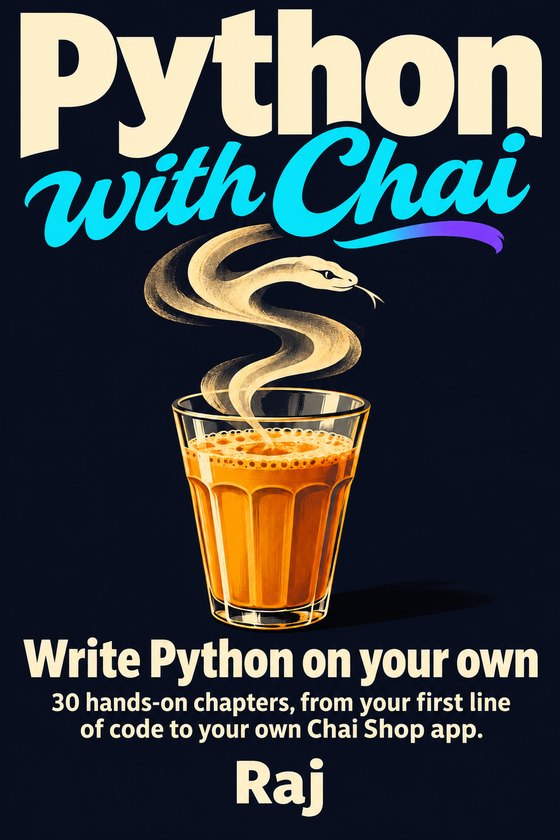
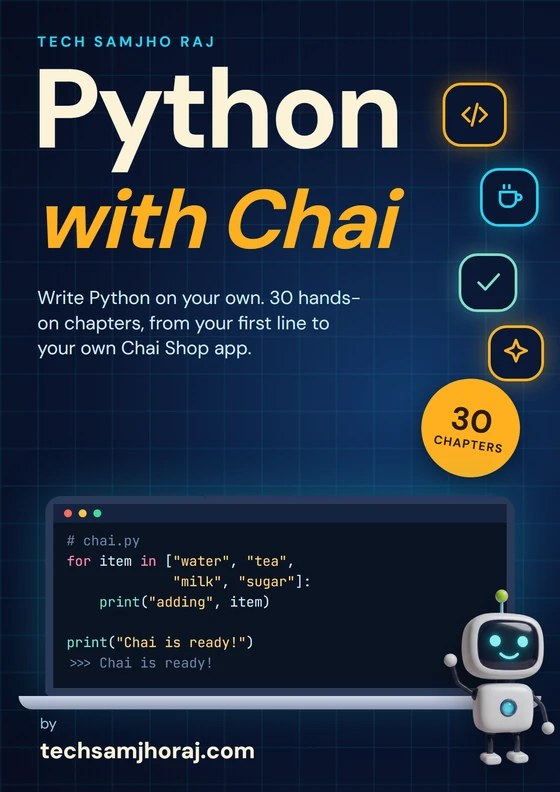
Books: A4 covers for Python with Chai and AI Job Search, unified book cards (price line, disabled Coming soon), bundle-card image fix (sw v160, rdbooks v41)

diff --git a/rdbooks.js b/rdbooks.js
@@ -18,7 +18,7 @@ function card(c){
     ? `<img${c.mock ? ' class="mock"' : ""} src="${c.cover}" alt="${esc(c.alt)}" width="${c.w}" height="${c.h}" loading="lazy" decoding="async">`
     : `<span class="emo" aria-hidden="true">${c.emoji}</span>`;
   const ext = c.ext ? ' target="_blank" rel="noopener"' : "";
-  const price = c.price
+  const price = c.tba ? `<div class="bk-price"><b class="tba">₹ —</b><span>Price to be announced</span></div>` : c.price
     ? `<div class="bk-price"><b>${rs(c.price)}</b>${c.was ? `<s>${rs(c.was)}</s><em>Save ${rs(c.was - c.price)}</em>` : ""}${c.priceNote ? `<span>${c.priceNote}</span>` : ""}</div>`
     : `<div class="bk-price"><span>${c.priceNote || ""}</span></div>`;
   const canCart = c.cartId && CART_LIVE && window.Cart;
@@ -29,7 +29,8 @@ function card(c){
     : `<span class="bk-btn" aria-disabled="true">Coming soon</span>`;
   const buyNow = canCart ? `<a class="bk-link" href="${c.buy}" data-bk-buy="${c.cartId}" rel="noopener">Buy now</a>` : "";
   const prev = c.preview ? `<a class="bk-link" href="${c.preview}"${c.previewExt ? ' target="_blank" rel="noopener"' : ""}>${esc(c.previewLabel || "Free preview →")}</a>` : "";
-  const links = buyNow || prev ? `<div class="bk-links">${buyNow}${prev}</div>` : "";
+  const prev2 = c.preview2 ? `<a class="bk-link" href="${c.preview2}" target="_blank" rel="noopener">${esc(c.preview2Label || "More →")}</a>` : "";
+  const links = buyNow || prev ? `<div class="bk-links">${buyNow}${prev}${prev2}</div>` : "";
   return `<article class="bk-card" data-cats="${c.cats.join(" ")}">
     <div class="bk-stage${c.saf ? " saf" : ""}"><span class="bk-pill">${esc(c.pill)}</span>${c.badge ? `<span class="bk-badge">${esc(c.badge)}</span>` : ""}${stage}${c.mascot ? `<img class="bk-mascot" src="${c.mascot}" alt="" width="34" height="34" loading="lazy">` : ""}</div>
     <div class="bk-body"><h3><a href="${c.href}"${ext}>${esc(c.title)}</a></h3><p class="bk-meta">${c.meta}</p>${price}${btn}${links}</div></article>`;
@@ -38,13 +39,13 @@ function card(c){
 function cards(B, A){
   const pyBuy = B.buy.en || "";
   return [
-    { cats:["tech"], title:"Python with Chai", pill:"English", cover:"media/book-mockup-tech.webp", mock:1, w:560, h:700, alt:"Python with Chai: 3D view of the navy book with a chai glass on the cover", mascot:"img/botu-192.png",
+    { cats:["tech"], title:"Python with Chai", pill:"English", cover:MEDIA + "python-with-chai-cover-a4.webp", w:560, h:792, alt:"Python with Chai: 3D view of the navy book with a chai glass on the cover", mascot:"img/botu-192.png",
       meta:"30 chapters · 300+ pages · PDF + EPUB · for beginners", price:B.price, priceNote:"", href:"#p/python-with-chai", buy:pyBuy, buyLabel:"Buy " + rs(B.price), preview:"#book", previewLabel:"Free preview →" },
     { cats:["tech"], title:"Python Libraries Made Easy", pill:"English", badge:"Coming soon", cover:MEDIA + "pylibs-cover.webp", w:840, h:840, alt:"Python Libraries Made Easy, book cover", mascot:"img/botu-192.png",
-      meta:"19 libraries, one per chapter · 83 pages · free sample of 15 pages", priceNote:"Price announced at launch", href:"#p/python-libraries", go:"notes/python-libraries-made-easy-sample.pdf", goLabel:"Free sample (PDF) →", ext:1 },
+      meta:"19 libraries, one per chapter · 83 pages · free sample of 15 pages", href:"#p/python-libraries", tba:1, preview:"notes/python-libraries-made-easy-sample.pdf", previewExt:1, previewLabel:"Sample PDF →" },
     { cats:["tech"], title:"Build with AI: 100 Days to Job-Ready", pill:"English", badge:"Coming soon", cover:MEDIA + "build-with-ai-cover.webp?v=2", w:560, h:792, alt:"Build with AI: 100 Days to Job-Ready, book cover", mascot:"img/botu-192.png",
-      meta:"24 skills, day by day, with code you can run · free sample of 3 chapters", priceNote:"The sample labs run on your laptop with no API key.", href:"#p/build-with-ai", go:"notes/build-with-ai-sample.pdf", goLabel:"Free sample (PDF) →", ext:1, preview:"notes/ai100-sample-labs.zip", previewExt:1, previewLabel:"Free sample labs (zip) →" },
-    { cats:["jobs","tech"], cartId:"book", title:"AI Job Search", pill:"English", badge:DODO_LIVE ? "1 free resume build" : "New", cover:MEDIA + "aijob-cover.webp", w:420, h:420, alt:"AI Job Search by Raj: book cover with the Botu robot at a laptop", mascot:"img/botu-192.png",
+      meta:"24 skills, day by day, with code you can run · free sample of 3 chapters", href:"#p/build-with-ai", tba:1, preview:"notes/build-with-ai-sample.pdf", previewExt:1, previewLabel:"Sample PDF →", preview2:"notes/ai100-sample-labs.zip", preview2Label:"Labs zip →" },
+    { cats:["jobs","tech"], cartId:"book", title:"AI Job Search", pill:"English", badge:DODO_LIVE ? "1 free resume build" : "New", cover:MEDIA + "aijob-cover.webp?v=2", w:560, h:792, alt:"AI Job Search by Raj: book cover with the Botu robot at a laptop", mascot:"img/botu-192.png",
       meta:"50 AI prompts for jobs and study · PDF · helps you prepare, no job guarantee" + (CAREER_KIT_LIVE ? " · <b>Free Career Kit included</b>" : ""), price:A.price, priceNote:"+ tax", href:"#p/ai-job-search", buy:A.en, buyLabel:"Buy now · " + rs(A.price), preview:"#ai-job-search", previewLabel:"Free sample + details →" },
     { cats:["jobs"], title:"Naukri Saathi", pill:"Tool", badge:"Free demo", saf:1, emoji:"📄", w:0, h:0, alt:"", mascot:"img/botu-192.png",
       meta:"Paste a job post and your resume: skill match, resume lines, cover note and interview questions", priceNote:"Free to try. Resume pack ₹49 + tax", href:"/naukri-saathi/", go:"/naukri-saathi/", goLabel:"Try it free →" },
@@ -73,7 +74,7 @@ function shop(x){
       <p class="bk-lead">Chai-shop code, real AI prompts and step-by-step labs. Illustrated English ebooks that take you from your first program to a job-ready skill set. Free preview before you buy.</p>
       <div class="bk-btns"><a class="bk-btn pri" href="#bk-lib" data-bk-go="bk-lib">Shop all books →</a><a class="bk-btn" href="#p/ai-job-search">See inside a book</a></div>
       <ul class="hm-facts"><li><b>Instant</b> PDF download</li><li><b>Every example</b> tested</li><li><b>English</b> edition</li></ul></div>
-    <div class="hm-art" aria-hidden="true"><img class="a" src="${MEDIA}build-with-ai-cover.webp?v=2" alt="" width="420" height="325"><img class="b" src="media/book-mockup-tech.webp" alt="" width="280" height="350"><img class="c" src="${MEDIA}aijob-cover.webp" alt="" width="260" height="260"><span class="hm-chip">Python · AI · Jobs</span></div></div>
+    <div class="hm-art" aria-hidden="true"><img class="a" src="${MEDIA}build-with-ai-cover.webp?v=2" alt="" width="280" height="396"><img class="b" src="media/book-mockup-tech.webp?v=2" alt="" width="280" height="390"><img class="c" src="${MEDIA}aijob-cover.webp?v=2" alt="" width="280" height="396"><span class="hm-chip">Python · AI · Jobs</span></div></div>
   <section class="hm-trust" aria-label="Why buy here"><div><b>Instant download</b><span>Ebooks, nothing is shipped</span></div><div><b>Every example tested</b><span>Outputs come from running the code</span></div><div><b>Free previews</b><span>Read pages before you pay</span></div><div><b>Secure checkout</b><span>Payments by Dodo Payments</span></div></section>
   <section class="hm-goals" aria-labelledby="hm-g"><div class="bk-eyebrow">Pick a goal</div><h2 id="hm-g">What do you want to do?</h2>
     <div class="hm-gcards"><a class="hm-g" href="#bk-lib" data-bk-tab="tech"><b>Learn coding</b><span>Python from zero, libraries and building with AI.</span><i>Python · AI →</i></a><a class="hm-g" href="#bk-lib" data-bk-tab="jobs"><b>Get a job</b><span>Resume, cover letter and interview prompts, plus Naukri Saathi.</span><i>AI Job Search →</i></a><a class="hm-g" href="#bk-lib" data-bk-tab="kids"><b>Kids and teens</b><span>The Samjho Squad books, coming soon.</span><i>See the squad →</i></a></div></section>
@@ -83,7 +84,7 @@ function shop(x){
     <p class="bk-note" style="margin-top:12px">Prices are in rupees. AI Job Search prices show ₹ + tax (10% is added at checkout). Python with Chai is sold through Gumroad, which shows the final amount at checkout. AI Job Search helps you prepare and does not promise a job. Money books are on <a href="https://www.paisasamjhoraj.com/#books">our Paisa site</a>, and exam books are on <a href="https://www.dimaagdada.com/reasoning-puzzles/">Dimaag Dada</a>.</p></section>
   <section aria-labelledby="bk-b"><div class="bk-eyebrow">Sets</div><h2 id="bk-b">Books that work together</h2>
     <div class="bk-row" style="margin-top:14px;grid-template-columns:minmax(0,520px)">
-      <div class="bk-bundle"><span class="bk-badge">Best value</span><div class="bkim"><img src="${MEDIA}aijob-cover.webp" alt="" width="420" height="420" loading="lazy"></div><div class="tx"><h3>Job-Ready bundle</h3><p>AI Job Search book (English) + 5 resume builds on Naukri Saathi${DODO_LIVE ? "" : " (the builds arrive with our new checkout)"}${CAREER_KIT_LIVE ? ", plus the free Career Kit" : ""}. Helps you prepare; no job guarantee.</p><div class="pr"><b>${rs(A.bundle)}</b><span class="bk-note">+ tax</span></div><a class="bk-btn pri" href="#shop" data-bk-buy="bundle" rel="noopener">Buy now</a>${CART_LIVE && window.Cart ? `<button type="button" class="bk-btn" data-bk-cart="bundle">Add to cart</button>` : ""}</div></div></div></section>
+      <div class="bk-bundle"><span class="bk-badge">Best value</span><div class="bkim"><img src="${MEDIA}aijob-cover.webp?v=2" alt="" width="560" height="792" loading="lazy"></div><div class="tx"><h3>Job-Ready bundle</h3><p>AI Job Search book (English) + 5 resume builds on Naukri Saathi${DODO_LIVE ? "" : " (the builds arrive with our new checkout)"}${CAREER_KIT_LIVE ? ", plus the free Career Kit" : ""}. Helps you prepare; no job guarantee.</p><div class="pr"><b>${rs(A.bundle)}</b><span class="bk-note">+ tax</span></div><a class="bk-btn pri" href="#shop" data-bk-buy="bundle" rel="noopener">Buy now</a>${CART_LIVE && window.Cart ? `<button type="button" class="bk-btn" data-bk-cart="bundle">Add to cart</button>` : ""}</div></div></div></section>
   <section aria-labelledby="bk-i"><h2 id="bk-i">Real pages from our books</h2><p class="bk-lead" style="margin:6px 0 14px">Real pages from our own free previews. Swipe to see more.</p>
     <div class="bk-pages" role="list">
       <figure role="listitem"><img src="${MEDIA}aijob-en-p2.webp" alt="AI Job Search, English edition, sample page" width="640" height="495" loading="lazy"><figcaption>AI Job Search · English · sample page</figcaption></figure>
@@ -108,7 +109,7 @@ function aiPage(x){
   const pg = n => `<figure><img src="${MEDIA}aijob-en-p${n}.webp" alt="AI Job Search sample page ${n}" width="640" height="495" loading="lazy"><figcaption>Sample page ${n}</figcaption></figure>`;
   return `<div class="bk bk-has-sticky">
   <p><a class="bk-link" href="#shop">← All books</a></p>
-  <section class="bk-pagehero"><div class="bk-stage" style="border-radius:24px"><span class="bk-pill">English</span><span class="bk-badge">New</span><img src="${MEDIA}aijob-cover.webp" alt="AI Job Search by Raj: book cover with the Botu robot at a laptop" width="420" height="420" decoding="async"></div>
+  <section class="bk-pagehero"><div class="bk-stage" style="border-radius:24px"><span class="bk-pill">English</span><span class="bk-badge">New</span><img src="${MEDIA}aijob-cover.webp?v=2" alt="AI Job Search by Raj: book cover with the Botu robot at a laptop" width="420" height="420" decoding="async"></div>
     <div style="display:grid;gap:12px"><div class="bk-eyebrow">E-book · by Raj</div><h1>AI Job Search: 50 AI prompts for jobs + study</h1>
       <p class="bk-lead">50 copy-paste AI prompts that help you prepare for a job and study smarter. Every prompt comes with a real AI reply and a one-line tip on why it works. Just change the [brackets] and paste into ChatGPT, Gemini or any AI.</p>
       <div class="bk-price" style="padding:0"><b>${rs(A.price)}</b><span>+ tax · English edition</span></div>
@@ -135,12 +136,12 @@ function productData(x){
   const B = x.BOOK, A = x.AIJOB;
   return {
     "ai-job-search": { title:"AI Job Search: 50 AI prompts for jobs + study", eyebrow:"E-book · by Raj", pill:"English", badge:"New", cartId:"book", price:A.price, buy:A.en,
-      gallery:[[MEDIA + "aijob-cover.webp", "AI Job Search book cover"], [MEDIA + "aijob-en-p1.webp", "Sample page 1"], [MEDIA + "aijob-en-p2.webp", "Sample page 2"], [MEDIA + "aijob-en-p3.webp", "Sample page 3"]],
+      gallery:[[MEDIA + "aijob-cover.webp?v=2", "AI Job Search book cover"], [MEDIA + "aijob-en-p1.webp", "Sample page 1"], [MEDIA + "aijob-en-p2.webp", "Sample page 2"], [MEDIA + "aijob-en-p3.webp", "Sample page 3"]],
       desc:"50 copy-paste AI prompts that help you prepare for a job and study smarter. Every prompt comes with a real AI reply and a one-line tip on why it works.",
       more:"Resume and LinkedIn prompts, interview practice, the salary question and a 7-day study plan. You change the [brackets] and paste into any AI chat tool. It helps you prepare and does not promise a job.",
       pills:["50 prompts with real replies", "Instant PDF, 89 pages", "Free sample pages", "1 free Naukri Saathi resume build"], more_href:"#ai-job-search", more_label:"Full details and free sample →" },
     "python-with-chai": { title:"Python with Chai: From Basic to Expert", eyebrow:"E-book · by Raj", pill:"English", cartId:"", price:B.price, buy:B.buy.en,
-      gallery:[["media/book-mockup-tech.webp", "Python with Chai book cover"], [MEDIA + "python-ch1-p2.webp", "Chapter 1 preview page"], [MEDIA + "python-ch3-p2.webp", "Chapter 3 preview page"]],
+      gallery:[["media/book-mockup-tech.webp?v=2", "Python with Chai book cover"], [MEDIA + "python-ch1-p2.webp", "Chapter 1 preview page"], [MEDIA + "python-ch3-p2.webp", "Chapter 3 preview page"]],
       desc:"30 illustrated chapters and 300+ pages that take you from print() to decorators and a real project, with chai-shop examples.",
       more:"120+ examples where every output was really run, common mistakes with real error messages, practice with answers, cheat sheets and an index. PDF + EPUB in every purchase.",
       pills:["30 chapters, 300+ pages", "Every output really run", "Free chapter previews", "PDF + EPUB"], more_href:"#book", more_label:"Free preview and details →", sold:"Sold on Gumroad" },
@@ -174,7 +175,7 @@ function productExtra(x){
       details:[["Title","Python with Chai: From Basic to Expert"],["Language","English"],["Format","PDF + EPUB"],["Pages","300+"],["Chapters","30"],["Sold on","Gumroad"]],
       chapters:(B.chapters || []).map(c => [c[0], c[2]]),
       stats:[["30","chapters"],["300+","pages"],["120+","examples"]],
-      pages:[["media/book-mockup-tech.webp","Cover","Python with Chai, English edition"],[MEDIA + "python-ch1-p2.webp","Chapter 1","Hello, Python!"],[MEDIA + "python-ch3-p2.webp","Chapter 3","Strings: playing with text"]],
+      pages:[["media/book-mockup-tech.webp?v=2","Cover","Python with Chai, English edition"],[MEDIA + "python-ch1-p2.webp","Chapter 1","Hello, Python!"],[MEDIA + "python-ch3-p2.webp","Chapter 3","Strings: playing with text"]],
       faq:[["What format is the book?","PDF + EPUB, both included in every purchase. The PDF reads well on a phone, tablet or laptop; the EPUB is for Kindle, Kobo and phone readers."],["Do I need to know programming?","No. It starts from print() and builds up."],["Can I read a free preview first?","Yes. Every preview chapter shows the title page, a chapter and the practice section."],["Where do I pay?","Checkout is on Gumroad, which shows the final amount."]]
     },
     "python-libraries": {

diff --git a/python-book/index.html b/python-book/index.html
@@ -11,12 +11,12 @@
 <meta property="og:title" content="Python Book in English (PDF + EPUB) | Tech Samjho Raj">
 <meta property="og:description" content="Python with Chai: 30 illustrated chapters, 300+ pages, from print() to decorators and a real project. English edition, free chapter previews.">
 <meta property="og:url" content="https://www.techsamjhoraj.com/python-book/">
-<meta property="og:image" content="https://www.techsamjhoraj.com/media/book-cover-en.jpg">
+<meta property="og:image" content="https://www.techsamjhoraj.com/media/book-cover-en.jpg?v=2">
 <meta property="og:image:alt" content="Python with Chai book cover, Tech Edition">
 <meta name="twitter:card" content="summary_large_image">
 <meta name="theme-color" content="#050b17">
 <link rel="icon" type="image/png" sizes="32x32" href="/img/favicon-32.png">
-<script type="application/ld+json">{"@context":"https://schema.org","@graph":[{"@type":"Organization","@id":"https://www.techsamjhoraj.com/#org","name":"Tech Samjho Raj","url":"https://www.techsamjhoraj.com/"},{"@type":"Book","@id":"https://www.techsamjhoraj.com/python-book/#book","name":"Python with Chai: From Basic to Expert","author":{"@type":"Person","name":"Raj"},"publisher":{"@id":"https://www.techsamjhoraj.com/#org"},"description":"Python with Chai: 30 illustrated chapters, 300+ pages, from print() to decorators and a real project. English edition, free chapter previews.","image":"https://www.techsamjhoraj.com/media/book-cover-en.jpg","url":"https://www.techsamjhoraj.com/python-book/","inLanguage":["en"],"bookFormat":"https://schema.org/EBook","genre":"Programming","numberOfPages":300,"offers":[{"@type":"Offer","name":"English edition","price":"499","priceCurrency":"INR","availability":"https://schema.org/InStock","url":"https://samjhowithraj.gumroad.com/l/python-with-chai-en","itemCondition":"https://schema.org/NewCondition"}]},{"@type":"FAQPage","mainEntity":[{"@type":"Question","name":"What format is the Python with Chai book?","acceptedAnswer":{"@type":"Answer","text":"PDF + EPUB, both included in every purchase. The PDF (A5 pages) reads well on a phone, tablet or laptop and prints nicely; the EPUB is for Kindle, Kobo and phone e-book readers."}},{"@type":"Question","name":"I do not have Python installed. Can I still use the book?","acceptedAnswer":{"@type":"Answer","text":"Yes. Paste any example into the free Python Playground on this site and press Run: it runs in your browser, even on a phone. Almost every example works there."}},{"@type":"Question","name":"Do I need to know coding?","acceptedAnswer":{"@type":"Answer","text":"No. Chapter 1 starts from installing Python. The expert chapters are there when you are ready."}},{"@type":"Question","name":"Can I read a free preview first?","acceptedAnswer":{"@type":"Answer","text":"Yes. Every preview chapter shows the title page, a chai-shop story and a sneak peek, in the English PDF."}}]}]}</script>
+<script type="application/ld+json">{"@context":"https://schema.org","@graph":[{"@type":"Organization","@id":"https://www.techsamjhoraj.com/#org","name":"Tech Samjho Raj","url":"https://www.techsamjhoraj.com/"},{"@type":"Book","@id":"https://www.techsamjhoraj.com/python-book/#book","name":"Python with Chai: From Basic to Expert","author":{"@type":"Person","name":"Raj"},"publisher":{"@id":"https://www.techsamjhoraj.com/#org"},"description":"Python with Chai: 30 illustrated chapters, 300+ pages, from print() to decorators and a real project. English edition, free chapter previews.","image":"https://www.techsamjhoraj.com/media/book-cover-en.jpg?v=2","url":"https://www.techsamjhoraj.com/python-book/","inLanguage":["en"],"bookFormat":"https://schema.org/EBook","genre":"Programming","numberOfPages":300,"offers":[{"@type":"Offer","name":"English edition","price":"499","priceCurrency":"INR","availability":"https://schema.org/InStock","url":"https://samjhowithraj.gumroad.com/l/python-with-chai-en","itemCondition":"https://schema.org/NewCondition"}]},{"@type":"FAQPage","mainEntity":[{"@type":"Question","name":"What format is the Python with Chai book?","acceptedAnswer":{"@type":"Answer","text":"PDF + EPUB, both included in every purchase. The PDF (A5 pages) reads well on a phone, tablet or laptop and prints nicely; the EPUB is for Kindle, Kobo and phone e-book readers."}},{"@type":"Question","name":"I do not have Python installed. Can I still use the book?","acceptedAnswer":{"@type":"Answer","text":"Yes. Paste any example into the free Python Playground on this site and press Run: it runs in your browser, even on a phone. Almost every example works there."}},{"@type":"Question","name":"Do I need to know coding?","acceptedAnswer":{"@type":"Answer","text":"No. Chapter 1 starts from installing Python. The expert chapters are there when you are ready."}},{"@type":"Question","name":"Can I read a free preview first?","acceptedAnswer":{"@type":"Answer","text":"Yes. Every preview chapter shows the title page, a chai-shop story and a sneak peek, in the English PDF."}}]}]}</script>
 <script type="application/ld+json">{"@context":"https://schema.org","@type":"BreadcrumbList","itemListElement":[{"@type":"ListItem","position":1,"name":"Home","item":"https://www.techsamjhoraj.com/"},{"@type":"ListItem","position":2,"name":"Python with Chai book","item":"https://www.techsamjhoraj.com/python-book/"}]}</script>
 <style>:root{--bg:#050b17;--card:#0a1628;--fg:#f4f8ff;--mut:#9fb4c8;--line:#1c6f86;--gold:#25e0e6;--cy:#25e0e6;color-scheme:dark}
 *{box-sizing:border-box}body{margin:0;background-color:var(--bg);background-image:linear-gradient(rgba(37,224,230,.05) 1px,transparent 1px),linear-gradient(90deg,rgba(37,224,230,.05) 1px,transparent 1px);background-size:46px 46px;color:var(--fg);font:17px/1.65 "Segoe UI",system-ui,-apple-system,Roboto,sans-serif}
@@ -41,7 +41,7 @@ img{max-width:100%;height:auto;border-radius:14px}</style>
 <p class="crumb"><a href="/">Home</a> › Python with Chai book</p>
 <h1>Python with Chai: learn Python from Basic to Expert</h1>
 <p class="lead">Learn Python the chai way: one cup, one chapter. 30 illustrated chapters (300+ pages) take you from <code>print()</code> to decorators, asyncio and a real capstone project, with Chotu the chai-cup buddy on every page. By Raj, AI expert · Azure &amp; Claude certified AI architect · 20 years in tech.</p>
-<img src="/media/book-mockup-tech.webp" alt="Python with Chai, Tech Edition (English): 3D view of the navy book with a chai glass on the cover" width="560" height="700" style="max-width:260px">
+<img src="/media/book-mockup-tech.webp?v=2" alt="Python with Chai, Tech Edition (English): 3D view of the navy book with a chai glass on the cover" width="560" height="700" style="max-width:260px">
 <ul><li>30 chapters, Basic, Intermediate and Expert</li><li>English edition, PDF + EPUB</li><li>120+ examples, every output checked by really running the code</li><li>Common mistakes with real error messages, practice, answers, cheat sheets and an index</li></ul>
 <h2>Price</h2>
 <p>Regular price: ₹499. A launch offer may be running: <a href="/#book">see today's price on the book page</a>. Checkout is on Gumroad (in US dollars, GST extra for India buyers).</p>

diff --git a/index.html b/index.html
@@ -31,7 +31,7 @@
 <link rel="preconnect" href="https://fonts.googleapis.com"><link rel="preconnect" href="https://fonts.gstatic.com" crossorigin>
 <link rel="stylesheet" href="https://fonts.googleapis.com/css2?family=Sora:wght@800&amp;text=TechSamjoR&amp;display=swap">
 <link rel="manifest" href="manifest.webmanifest">
-<link rel="stylesheet" href="redesign.css?v=1000"><link rel="stylesheet" href="rdhome.css?v=16"><link rel="stylesheet" href="rdlight.css?v=pal14"><link rel="stylesheet" href="rdbooks.css?v=22"><script src="rdhome.js?v=20"></script><script defer src="rdbar.js?v=11"></script><script defer src="rdtools.js?v=6"></script><script defer src="rdlearn.js?v=4"></script><script defer src="rdauth.js?v=3"></script><script defer src="rdplayer.js?v=1"></script><script defer src="rdnews.js?v=6"></script><script defer src="cart.js?v=5"></script><script defer src="rdbooks.js?v=37"></script>
+<link rel="stylesheet" href="redesign.css?v=1000"><link rel="stylesheet" href="rdhome.css?v=16"><link rel="stylesheet" href="rdlight.css?v=pal14"><link rel="stylesheet" href="rdbooks.css?v=25"><script src="rdhome.js?v=20"></script><script defer src="rdbar.js?v=11"></script><script defer src="rdtools.js?v=6"></script><script defer src="rdlearn.js?v=4"></script><script defer src="rdauth.js?v=3"></script><script defer src="rdplayer.js?v=1"></script><script defer src="rdnews.js?v=6"></script><script defer src="cart.js?v=6"></script><script defer src="rdbooks.js?v=41"></script>
 <script>try{if(localStorage.getItem("swr-theme")!=="dark")document.documentElement.dataset.theme="light"}catch(e){document.documentElement.dataset.theme="light"}</script>
 <meta name="theme-color" content="#ffffff">
 <link rel="apple-touch-icon" href="img/botu-apple-180.png">
@@ -1240,8 +1240,8 @@ const BOOK = {
   buy: { en: "https://samjhowithraj.gumroad.com/l/python-with-chai-en",
          hi: "https://samjhowithraj.gumroad.com/l/python-with-chai-en",
          both: "https://samjhowithraj.gumroad.com/l/python-with-chai-en" },
-  cover: { en: "media/book-cover-en.jpg", hi: "media/book-cover-hi.jpg" },   // en = the Tech Edition cover since 8 Nov 2026
-  mockup: "media/book-mockup-tech.webp", mockupHi: "media/book-mockup-hi.webp",   // both editions shown since 8 Nov 2026
+  cover: { en: "media/book-cover-en.jpg?v=2", hi: "media/book-cover-hi.jpg" },   // en = the Tech Edition cover since 8 Nov 2026
+  mockup: "media/book-mockup-tech.webp?v=2", mockupHi: "media/book-mockup-hi.webp",   // both editions shown since 8 Nov 2026
   chapters: [[1, "basic", "Hello, Python!", "Hello, Python!"], [2, "basic", "Variables and data types", "Variables aur data types"], [3, "basic", "Strings: playing with text", "Strings: text se khelo"], [4, "basic", "Numbers, maths and input()", "Numbers, maths aur input()"], [5, "basic", "Decisions: if, elif, else", "Faisle: if, elif, else"], [6, "basic", "Loops: do it again and again", "Loops: baar baar karo"], [7, "basic", "Lists: many items, one box", "Lists: kai items, ek dabba"], [8, "basic", "Tuples and sets", "Tuples aur sets"], [9, "basic", "Dictionaries: the menu card", "Dictionaries: menu card"], [10, "basic", "Functions: write once, use forever", "Functions: ek baar likho, hamesha use karo"], [11, "inter", "Errors and debugging", "Errors aur debugging"], [12, "inter", "Files, CSV and JSON", "Files, CSV aur JSON"], [13, "inter", "Modules and the standard library", "Modules aur standard library"], [14, "inter", "Classes and objects", "Classes aur objects"], [15, "inter", "OOP: inheritance and magic methods", "OOP: inheritance aur magic methods"], [16, "inter", "Comprehensions, lambda and sorting", "Comprehensions, lambda aur sorting"], [17, "inter", "Iterators and generators", "Iterators aur generators"], [18, "inter", "collections and itertools", "collections aur itertools"], [19, "inter", "Recursion, scope and closures", "Recursion, scope aur closures"], [20, "inter", "Project: the Chai Shop app", "Project: Chai Shop app"], [21, "expert", "Decorators", "Decorators"], [22, "expert", "Context managers", "Context managers"], [23, "expert", "Type hints and dataclasses", "Type hints aur dataclasses"], [24, "expert", "Testing with pytest", "pytest se testing"], [25, "expert", "Packages, venv and pip", "Packages, venv aur pip"], [26, "expert", "Logging and command-line apps", "Logging aur command-line apps"], [27, "expert", "Threads and processes", "Threads aur processes"], [28, "expert", "asyncio: async and await", "asyncio: async aur await"], [29, "expert", "Web APIs, JSON and regex", "Web APIs, JSON aur regex"], [30, "expert", "Performance, and the expert capstone", "Performance, aur expert capstone"]],
   previews: [1, 3, 4, 5, 6, 7, 8, 9, 10, 11, 12, 13, 14, 20, 30],
 };

diff --git a/cart.js b/cart.js
@@ -6,8 +6,8 @@
   var WORKER = window.CART_WORKER || "https://naukri-saathi.techsamjhoraj.workers.dev", KEY = "ns-cart";   // CART_WORKER is only set on local test pages
   var PRODUCTS = window.CART_PRODUCTS = window.CART_PRODUCTS || [
     { id: "resume-pack", title: "Naukri Saathi resume pack (3 tailored resumes + cover letters)", price: 49, cover: "/img/botu-192.png" },
-    { id: "book", title: "AI Job Search book (English) + 1 resume build", price: 149, cover: "/media/books/aijob-cover.webp" },
-    { id: "bundle", title: "Job-Ready bundle: AI Job Search book + 5 resume builds", price: 249, cover: "/media/books/aijob-cover.webp" }
+    { id: "book", title: "AI Job Search book (English) + 1 resume build", price: 149, cover: "/media/books/aijob-cover.webp?v=2" },
+    { id: "bundle", title: "Job-Ready bundle: AI Job Search book + 5 resume builds", price: 249, cover: "/media/books/aijob-cover.webp?v=2" }
   ];
   var ALIAS = { "book-en": "book" };   // the book is one Dodo product (English only)
   function norm(id) { id = String(id || ""); return ALIAS[id] || id; }

diff --git a/rdbooks.css b/rdbooks.css
@@ -224,3 +224,11 @@ body:has(.bk) > header,body:has(.bk) header{position:static!important}
 
 .pp-labs{display:grid;grid-template-columns:repeat(auto-fit,minmax(260px,1fr));gap:8px}.pp-labs .bk-btn{justify-content:flex-start;text-align:left;min-height:48px;height:auto;padding:8px 14px}
 .pp-labs .bk-btn b{white-space:nowrap;margin-right:4px}
+.bk-bundle .bkim img{width:auto;height:auto;max-width:100%;max-height:94px;object-fit:contain}
+/* Store cards: same cover height, same slots in the same order */
+.bk-stage>img:not(.bk-mascot){height:184px;max-height:184px;width:auto;max-width:100%}
+.bk-price b.tba{color:var(--bk-muted);font-weight:700}
+.bk-card .bk-btn[aria-disabled="true"]{opacity:.7}
+@media (max-width:639px){.bk-stage>img:not(.bk-mascot){height:130px;max-height:130px}}
+@media (max-width:639px){.bk-stage{height:210px;padding:62px 10px 12px}.bk-stage>.bk-badge{top:42px;bottom:auto;left:0;right:auto}}
+.bk-links{min-height:44px}

diff --git a/sw.js b/sw.js
@@ -1,5 +1,5 @@
 // Offline support for Tech Samjho Raj. Bump VERSION on any change to this file or the precache list.
-const VERSION = "v158";
+const VERSION = "v160";
 const CACHE = "samjhowithraj-" + VERSION;
 const PRECACHE = ["./", "index.html", "manifest.webmanifest", "img/badge-96.png", "img/favicon-32.png", "img/botu-192.png", "img/botu-512.png", "img/botu-apple-180.png", "img/botu-hello.webp", "redesign.css", "rdlight.css", "rdhome.css", "rdhome.js", "rdbar.js", "rdtools.js", "rdlearn.js", "rdauth.js", "rdplayer.js", "rdnews.js", "rdbooks.js", "cart.js", "rdbooks.css", "img/rd/botu.png"];
 
